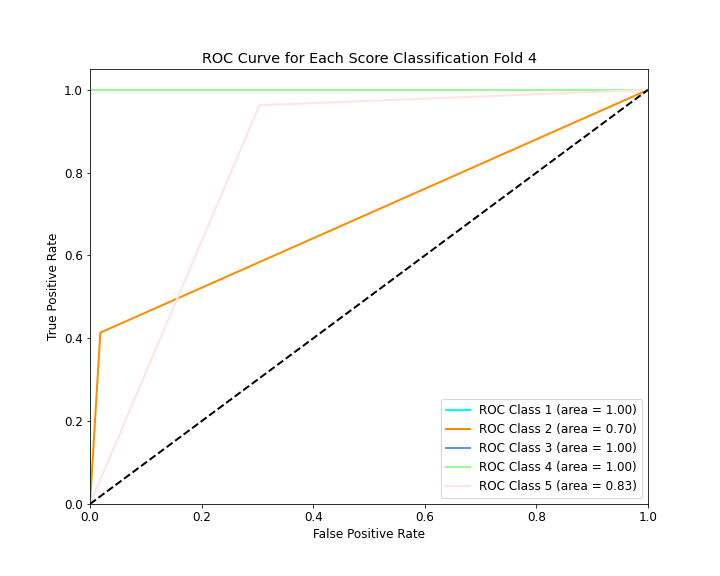
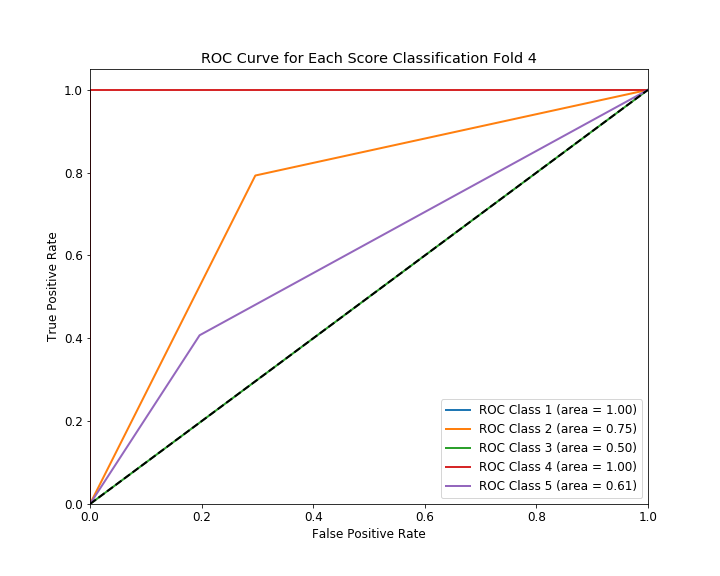
Updating training

diff --git a/MVDD/MVDD_Generator.py b/MVDD/MVDD_Generator.py
@@ -213,7 +213,7 @@ def getBestMVDD(dt, xData, yData, classes, learningCriteria):
     edgeList = []
 
     # get all combos of edges
-    edgeOptions = genEdgeCombos(percentReqdMin, percentReqdMax, totalEdges, combinationSize=500, sampleSize=100) #combinationSize=100000, sampleSize=50000) #changing stuff here
+    edgeOptions = genEdgeCombos(percentReqdMin, percentReqdMax, totalEdges, combinationSize=50, sampleSize=30) #combinationSize=100000, sampleSize=50000) #changing stuff here
 
     #Exhaustive sample of MVDD edges to try, and get best resulting MVDD
     for edgeOpt in edgeOptions:
@@ -234,7 +234,7 @@ def getBestMVDD(dt, xData, yData, classes, learningCriteria):
 
     return mvdd
 
-# Generate a bunch of possibel edge combinations given the constraints
+# Generate a bunch of possible edge combinations given the constraints
 # INPUT = minimum number of edges, maximum number of edges, total edges, number of combinations to make, and sample to return
 # OUTPUT = returns a sample of edge combinations for the MVDD
 def genEdgeCombos(minEdges, maxEdges, totalNumEdges, combinationSize, sampleSize):
